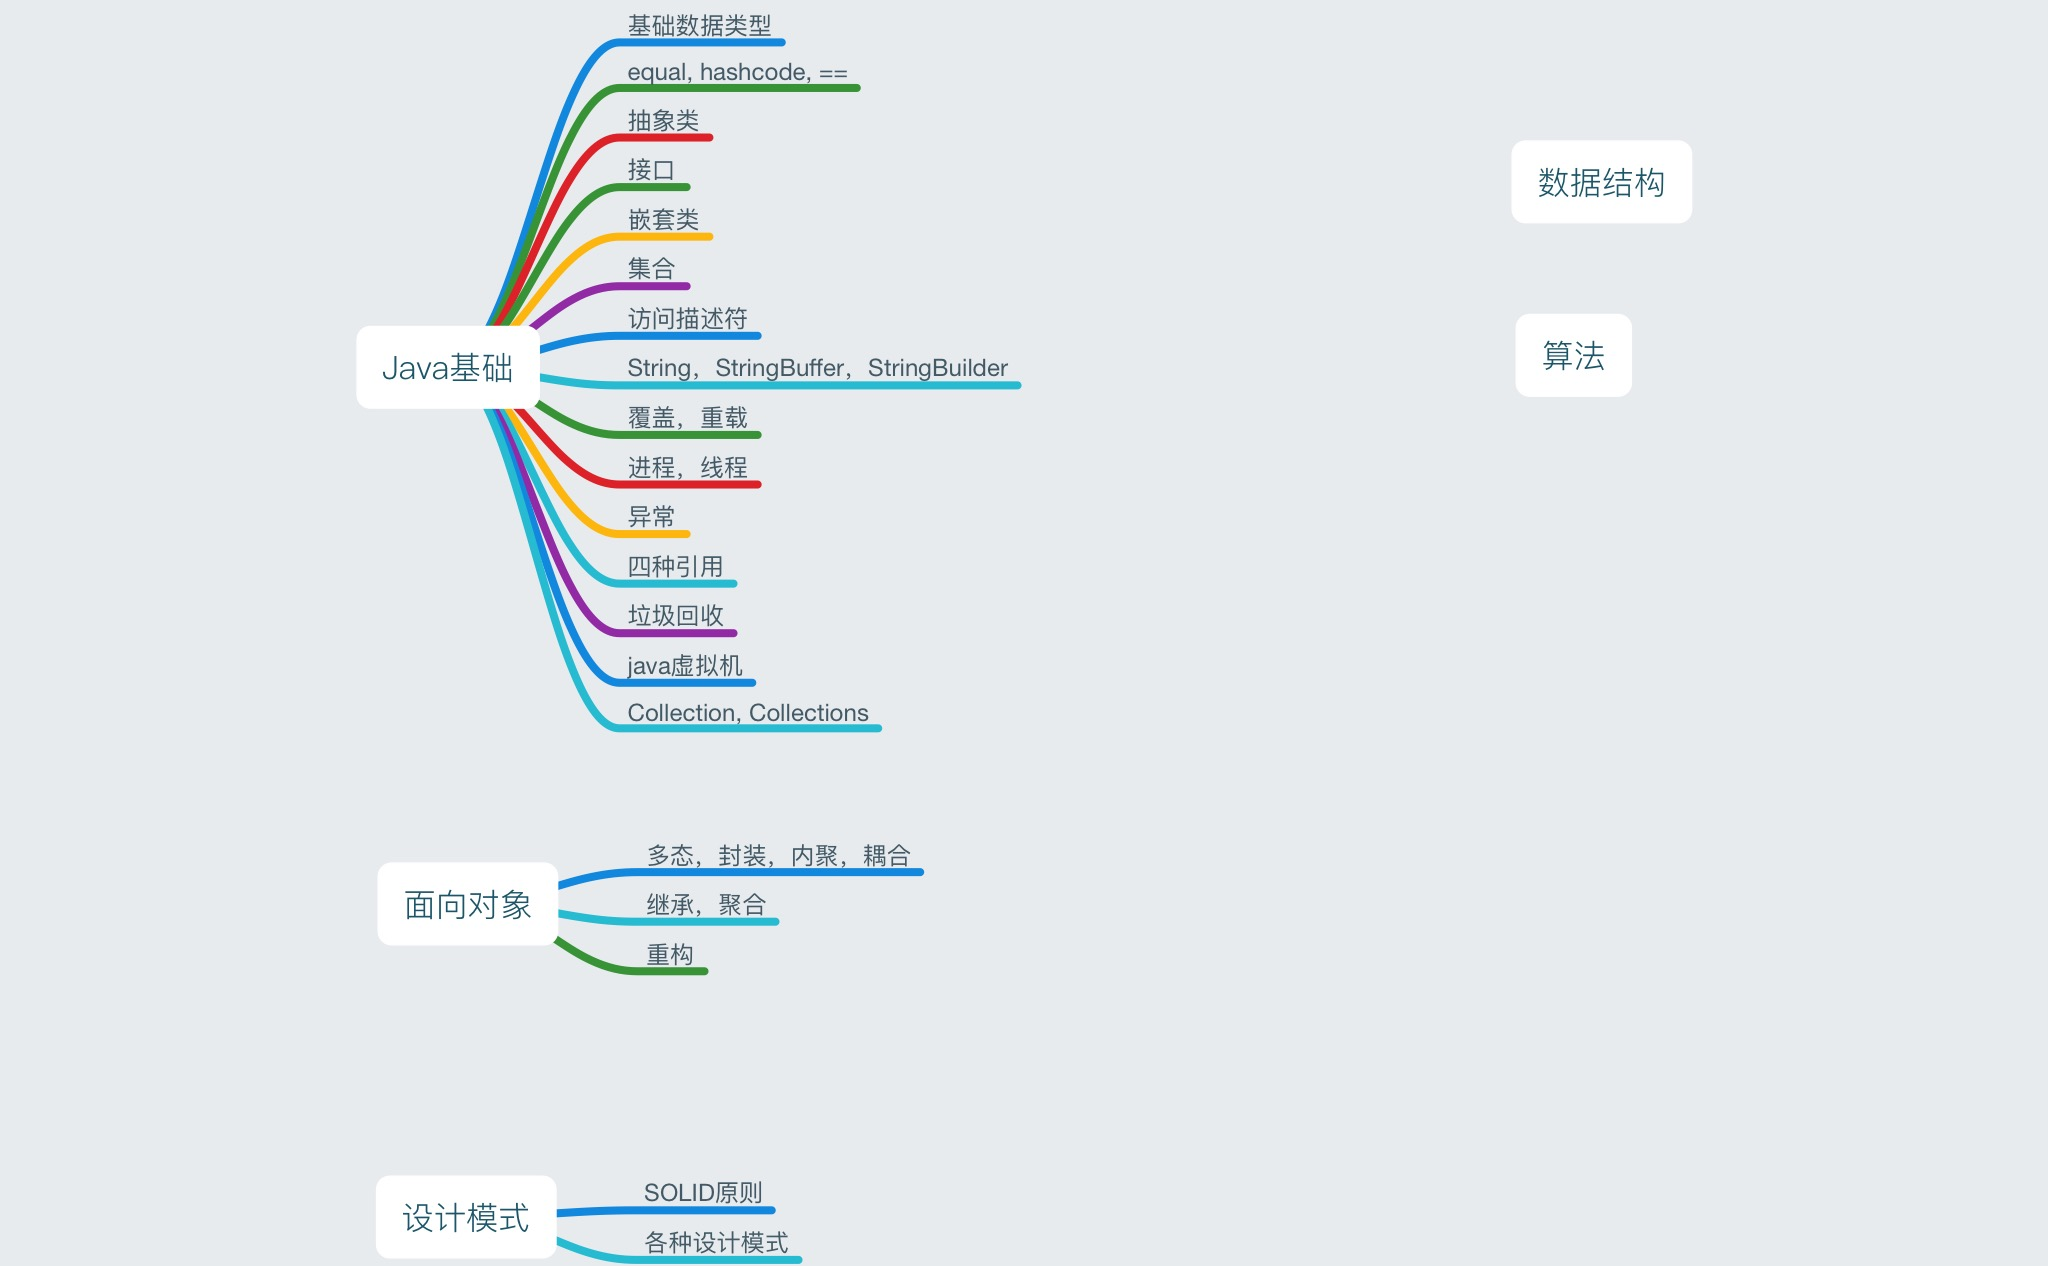
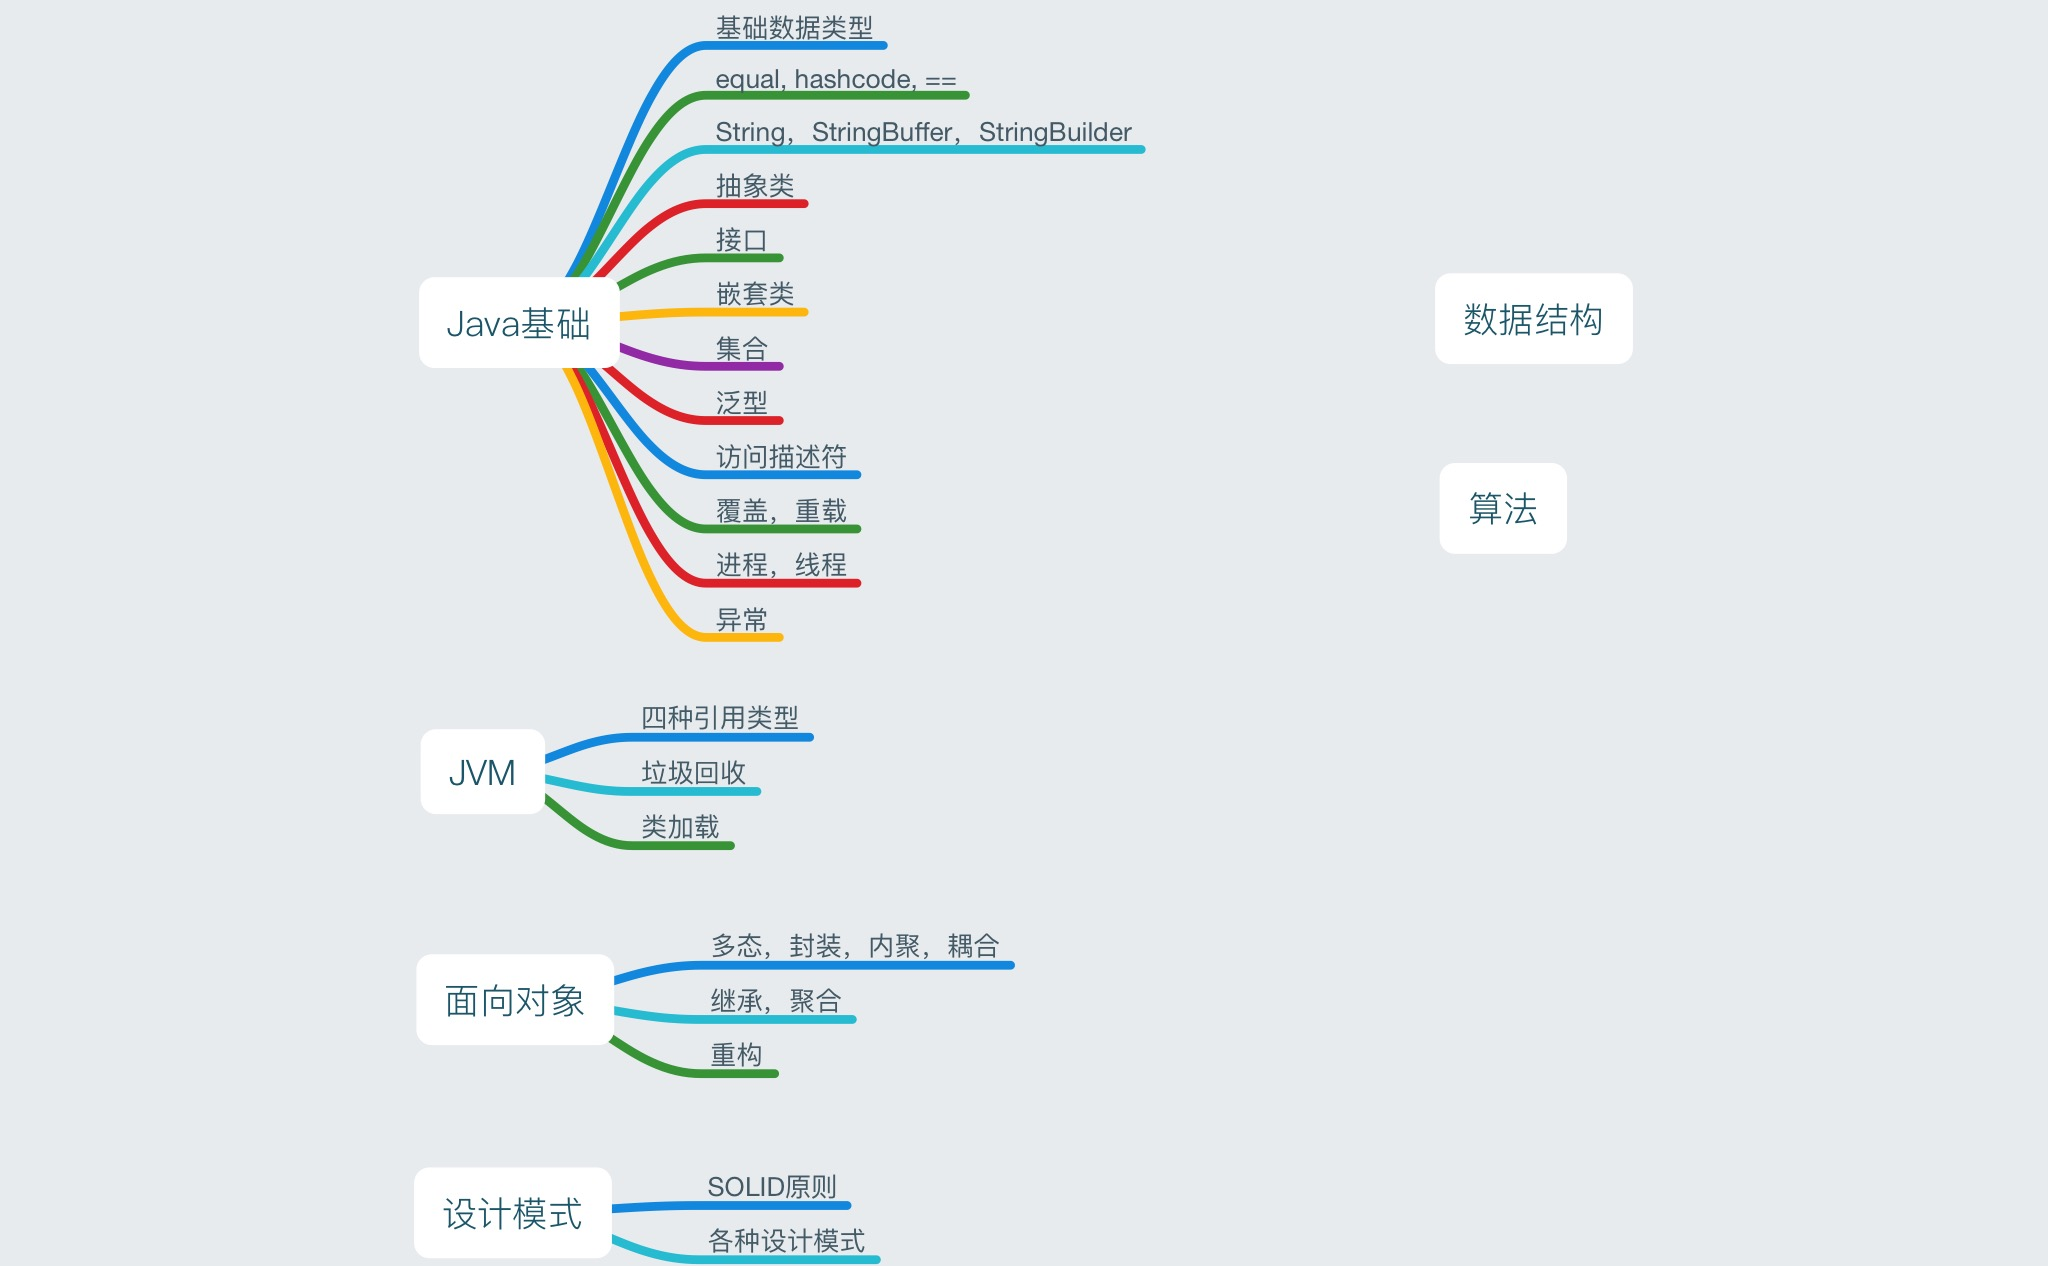
增加jvm块,开始修改基础的整理

diff --git a/Basis/Basis.md b/Basis/Basis.md
@@ -1,5 +1,5 @@
-## Java 核心概念
-#### 基础数据类型
+#Java 核心概念
+##基础数据类型
 8个：byte，short，int，long，float，double，char，boolean  
 byte：8位，1字节，有符号，-128 ~ 127  
 short：16位，有符号，-32768 ~ 32767  
@@ -12,10 +12,10 @@ char：16位Unicode字符
 自动类型转换：  
 byte，short，char—> int —> long—> float —> double
 
-#### 基础类型（Primitives）与封装类型（Wrappers）的区别在哪里？
-1. 技术数据类型是基本类型，但是封装类型是类
+###基础类型（Primitives）与封装类型（Wrappers）的区别在哪里？
+技术数据类型是基本类型，但是封装类型是类
 
-##### 拆箱/装箱问题
+####拆箱/装箱问题
 输出结果是什么？
 
 ```
@@ -23,8 +23,8 @@ public class Main {
 	public static void main(String[] args) {
 		Integer i1 = 100;
 		Integer i2 = 100;
-		Integer i3 = 100;
-		Integer i4 = 100;
+		Integer i3 = newInteger(100);
+		Integer i4 = newInteger(100);
 		
 		System.out.println(i1==i2);
 		System.out.println(i3==i4);
@@ -37,12 +37,36 @@ false
 
 ```
 public static Integer valueOf(int i) {
-	if(i >= IntegerCache.low && i <= IntegerCache.high)
-		return IntegerCache.cache[i + (-IntegerCache.low)];
-	else
-       return new Integer(i);
-}
+        return  i >= 128 || i < -128 ? new Integer(i) : SMALL_VALUES[i + 128];
+    }
 ```
+
+####其他
+`3*0.1 == 0.3`返回值  
+false，因为浮点数不能完全精确的表示出来
+
+`a=a+b`与`a+=b`有什么区别吗?  
++=操作符会进行隐式自动类型转换
+
+##==,equals and hashcode
+##String,StringBuilder,StringBuffer
+##抽象类
+##接口
+##嵌套类
+##集合
+##泛型
+##访问描述符
+##覆盖，重载
+##进程，线程
+##异常
+
+#JVM
+##四种引用类型
+##垃圾回收
+##类加载
+
+
+## Java 核心概念
 
 #### == and equals
 
